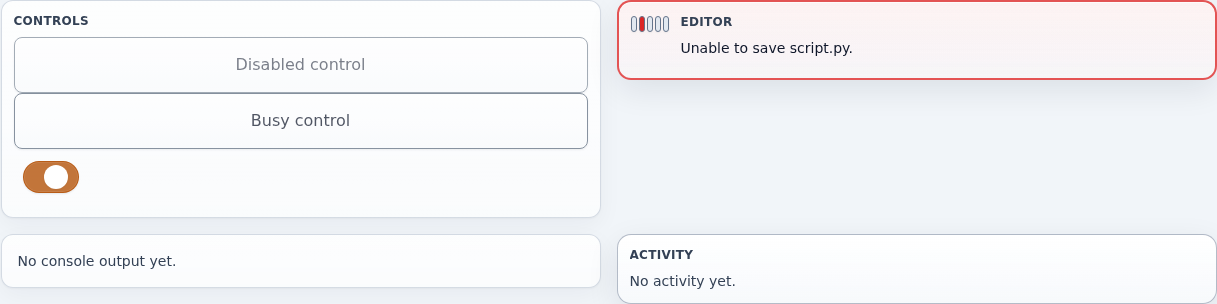
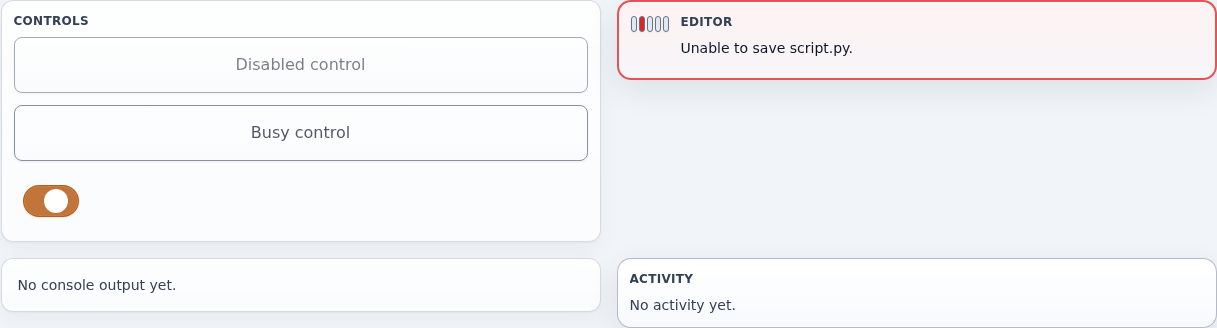
feat(ui): add nodel-control-grid to catalogue components
Introduce the `nodel-control-grid` custom element within the component
catalogue to provide structured layout for control elements.

This change updates the component markup and includes updated visual
regression snapshots to reflect the new grid-based layout.

diff --git a/components.html b/components.html
@@ -437,9 +437,11 @@
               <nodel-row>
                 <nodel-column md="6">
                   <nodel-group label="Controls">
-                    <nodel-button disabled>Disabled control</nodel-button>
-                    <nodel-button action="CatalogueBusy" data-catalogue-busy>Busy control</nodel-button>
-                    <nodel-toggle value="partially-on" data-catalogue-partial-toggle></nodel-toggle>
+                    <nodel-control-grid columns="1">
+                      <nodel-button disabled>Disabled control</nodel-button>
+                      <nodel-button action="CatalogueBusy" data-catalogue-busy>Busy control</nodel-button>
+                      <nodel-toggle value="partially-on" data-catalogue-partial-toggle></nodel-toggle>
+                    </nodel-control-grid>
                   </nodel-group>
                 </nodel-column>
                 <nodel-column md="6">
@@ -458,9 +460,11 @@
             <pre class="nodel-catalogue-code" data-catalogue-code-for="control-data-states"><code>&lt;nodel-row&gt;
   &lt;nodel-column md=&quot;6&quot;&gt;
     &lt;nodel-group label=&quot;Controls&quot;&gt;
-      &lt;nodel-button disabled&gt;Disabled control&lt;/nodel-button&gt;
-      &lt;nodel-button action=&quot;CatalogueBusy&quot; data-catalogue-busy&gt;Busy control&lt;/nodel-button&gt;
-      &lt;nodel-toggle value=&quot;partially-on&quot; data-catalogue-partial-toggle&gt;&lt;/nodel-toggle&gt;
+      &lt;nodel-control-grid columns=&quot;1&quot;&gt;
+        &lt;nodel-button disabled&gt;Disabled control&lt;/nodel-button&gt;
+        &lt;nodel-button action=&quot;CatalogueBusy&quot; data-catalogue-busy&gt;Busy control&lt;/nodel-button&gt;
+        &lt;nodel-toggle value=&quot;partially-on&quot; data-catalogue-partial-toggle&gt;&lt;/nodel-toggle&gt;
+      &lt;/nodel-control-grid&gt;
     &lt;/nodel-group&gt;
   &lt;/nodel-column&gt;
   &lt;nodel-column md=&quot;6&quot;&gt;